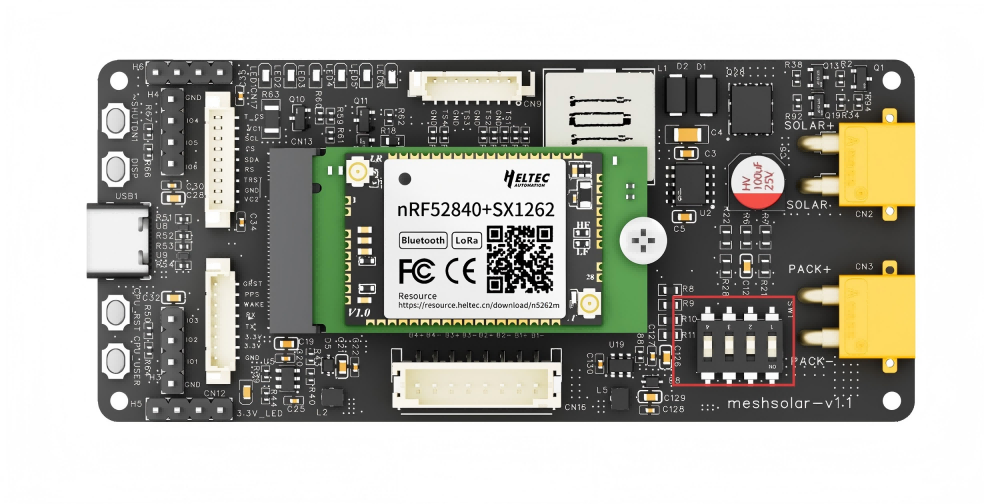
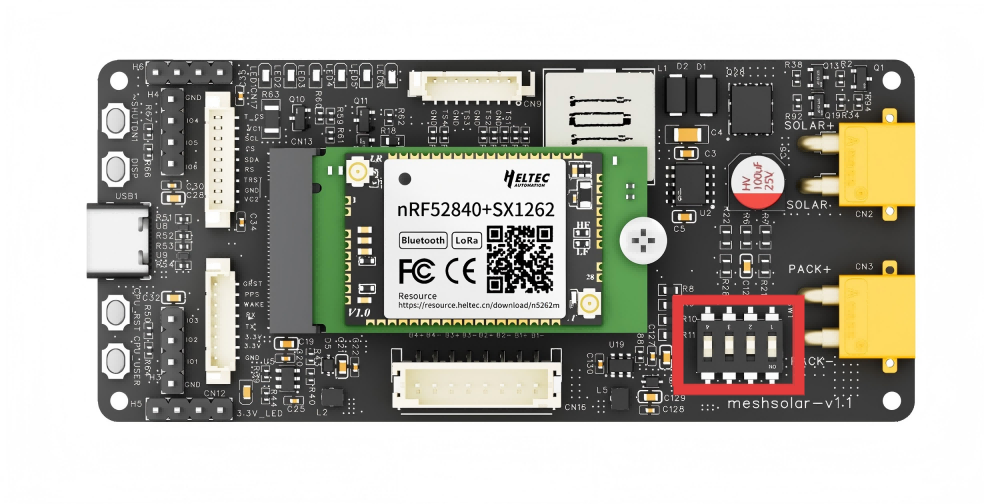
meshsolar fix 20257232

Changed region(s): [[0.6707, 0.5655, 0.8232, 0.8036]]

diff --git a/doc/node/meshsolar/source/quick_start.md b/doc/node/meshsolar/source/quick_start.md
@@ -1,29 +1,42 @@
 # MeshSolar Quick Start
 {ht_translation}`[简体中文]:[English]`
 
-***Documentation in progress***
+***Documentation in progress......***
 
-*This document describes the Quick Start Guide for MeshSolar*.<br>
-## Battery Specifications
-MeshSolar is available in two hardware versions, designed for Li-ion and LiFePO4 batteries respectively. Ensure you select the correct variant.
+*This document describes the Quick Start Guide for MeshSolar, You can refer to the instructional video for guidance:*<br>
+[Instructional video](https://www.youtube.com/watch?v=cDExK5QdVdU)
 
-**Follow these steps EXACTLY to prevent board damage:**
+Follow these steps **EXACTLY** to prevent board damage:
 - [Configure Battery Quantity](quantity)
 - [Connect Batteries](battery)
 - [BMS Setup](bms)
+
+## Battery Specifications
+MeshSolar is available in two hardware versions, designed for Li-ion and LiFePO4 batteries respectively. Ensure you select the correct variant.<br>
+
+| Module          | Frequency     | Battery   |
+|-----------------|---------------|-----------|
+| HT-n5262S-I-LF  | 470~510MHz    | Li-ion    |
+| HT-n5262S-F-LF  | 470~510MHz    | Li-ion    |
+| HT-n5262S-I-HF  | 863~928MHz    | LiFePO₄   |
+| HT-n5262S-F-HF  | 863~928MHz    | LiFePO₄   |
 
 --------------------------------
 
 (quantity)=
 
 ## Configure Battery Quantity
-By default, MeshSolar support a 4-battery configuration. If you are using 1 to 3 batteries, you must properly short-circuit the unused battery circuits.
+
+``` {warning} When configuring the battery quantity, disconnect both external power and batteries to prevent circuit board damage.
+```
+
+By default, MeshSolar support a 4-battery configuration. If you are using 1-3 batteries, you must properly short-circuit the unused battery circuits.
 
 ![](img/quick_start/01.jpg) 
 
 And only turn on the corresponding jumper switch. 
 
-``` {note} The switches labeled 1, 2, 3, and 4 on the switch correspond to 1, 2, 3, and 4 battery cells, respectively. <strong>This means the switches represent the quantity of batteries, not their serial numbers</strong>. For example, in the factory default setting, if the battery quantity is set to 4, switch No. 4 is turned ON, while switches No. 1, 2, and 3 remain OFF. When using 3 battery cells, turn OFF switches No. 1, 2, and 4, and turn ON switch No. 3.
+``` {note} The switches labeled 1/2/3/4 on the switch correspond to one/two/three/four battery cells, respectively. <strong>This means the switches represent the quantity of batteries, not their serial numbers</strong>. For example, in the factory default setting, if the battery quantity is set to FOUR, switch No.4 is turned ON, while switches No.1/2/3 remain OFF. When using THREE battery cells, turn OFF switches No.1/2/4, and turn ON switch No.3.
 ```
 
 ![](img/quick_start/07.png) 
@@ -35,69 +48,79 @@ And only turn on the corresponding jumper switch.
 ## Battery Connection
 **The batteries will be connected in series inside the MeshSolar device. Do not perform external series/parallel connections. Simply connect each battery to its designated port. Ensure correct polarity alignment by referencing the polarity markings on the baseboard.**
 
-![](img/quick_start/04.png)
+    ![](img/quick_start/04.png)
 
 --------------------------------
 
 ## NTC Connection
 Connect the NTC resistor, otherwise the device will enter low-temperature protection during reconfiguration.
 
-![](img/prog.png)
+    ![](img/prog.png)
 
 ----------------------------------
 
 (bms)=
 
 ## BMS Setup
-You can skip this step if using the default configuration, which is:
+**You can skip this step if using the default configuration, which is:**
 
-![](img/prog.png)
+| Parameter         | Default Value         |
+|-------------------|-----------------------|
+| Battery Type      | Hardware-dependent, must be selected in the configuration page |
+| Number of Cells   | 4 |
+| Design Capacity   | 3000mAh |
+| Discharge Cut-off | 2.5V |
+| Discharge High Temp Protection | 60℃ |
+| Discharge Low Temp Protection | 0℃ |
+| Charge High Temp Protection | 45℃ |
+| Charge Low Temp Protection | 0℃ |
+| Temperature Protection | On |
 
-``` {warning} Before performing this step, ensure that the hardware settings for the battery quantity are correctly configured and connected.
+``` {warning} <strong>Before performing this step, ensure that the hardware settings for the battery quantity are correctly configured and connected.</strong>
 ```
 
 1. Ensure the main control module is properly connected, ensure that the hardware settings for the battery quantity are correctly configured and connected.
 
-![](img/quick_start/02.png)
+    ![](img/quick_start/08.png)
 
-2. Activation.<br>
+2. BMS Firmware.<br>
+    - The factory firmware from MeshSolar enables BMS configuration. If you accidentally overwrite the firmware, you may download the original BMS firmware at this link: [Meshsolar BMS Stock Firmware](https://resource.heltec.cn/download/MeshSolar/firmware/bms). 
+    - For firmware flashing procedures, please refer to: [MeshSolar Firmware Upload](https://docs.heltec.org/en/node/meshsolar/quick_start.html#firmware-upload).
+
+3. Activation.<br>
     Once the device is powered off (due to battery removal or prolonged power loss), the BMS chip requires an 18V–25V power supply to reactivate before configuration can proceed.<br>
-    The activation interface can be either:**PD input via USB-C port** or **18–25V DC input via the XT-30 connector**.
-
-    ![](img/quick_start/05.png)
-
+    The activation interface can be either:**PD input via USB-C port** or **18–25V DC input via the XT-30 connector**.<br>
     Once successfully activated, the device's battery level indicator will illuminate.
 
-3. After successful activation, **do not remove the batteries**. Connect the device to a computer using a USB-C cable.
+    ![](img/quick_start/09.png)
 
-4. Open the [configuration page](https://flash.nmiot.net:3333) in your browser, click the Connect to choose the port. Adjust the settings as needed.
+4. After successful activation, **do not remove the batteries**. Connect the device to a computer using a USB-C cable.
+
+    ![](img/quick_start/10.jpg)
+
+5. Open the [configuration page](https://flash.nmiot.net:3333) in your browser, click the Connect to choose the port. Adjust the settings as needed.
 
     ![](img/quick_start/03.jpg)
 
 --------------------------------------------------
 
-## Solar Panel Wiring
+## DC & Solar Panel Wiring
 - Voltage: 18-25V
 - Connector: XT30 female socket (inner pin type)
 
-![](img/prog.png)
-
-## DC Input
-- Voltage: DC 18-25V
-- Connector: XT30 female socket (inner pin type)
-
-![](img/prog.png)
+    ![](img/quick_start/11.png)
 
 ## USB-C Input
-1. When PD3.0 is detected:<br>
-The USB-C port charges the battery and powers the main control module when PD3.0 protocol is identified.
-2. No protocol detected:<br>
-Without protocol recognition, the USB-C port only supplies power to the main control module
+- When PD3.0 is detected: The USB-C port charges the battery and powers the main control module when PD3.0 protocol is identified.
+- No protocol detected: Without protocol recognition, the USB-C port only supplies power to the main control module
+
+    ![](img/quick_start/12.png)
 
 -----------------------------------
 
 ## Antenna Connection
-The LoRa and Bluetooth antennas are located on the central control module of the device, with **IPEX1.0 (UF.L)** connector specifications.
+- The LoRa and Bluetooth antennas are located on the central control module of the device, with **IPEX1.0 (UF.L)** connector specifications.
+- f using IO pins to connect the antenna, please bridge the solder pads in the red box area shown in the figure below.
 
 ![](img/quick_start/06.png)
 

diff --git a/doc/node/meshsolar/source/index.rst b/doc/node/meshsolar/source/index.rst
@@ -4,8 +4,7 @@ MeshSolar User Guide
 
 :ht_translation:`[简体中文]:[English]`
 
-***Documentation in progress***
-
+**Documentation in progress**
 --------------------------
 
 Summary
@@ -50,7 +49,7 @@ Layout
    :maxdepth: 2
    :caption: Demo & Expansion
    
-   LoRaWAN<expansion>
+   LoRaWAN<https://docs.heltec.org/en/node/nrf/mesh_node_t114/lorawan/index.html>
 
 .. toctree::
    :maxdepth: 2
